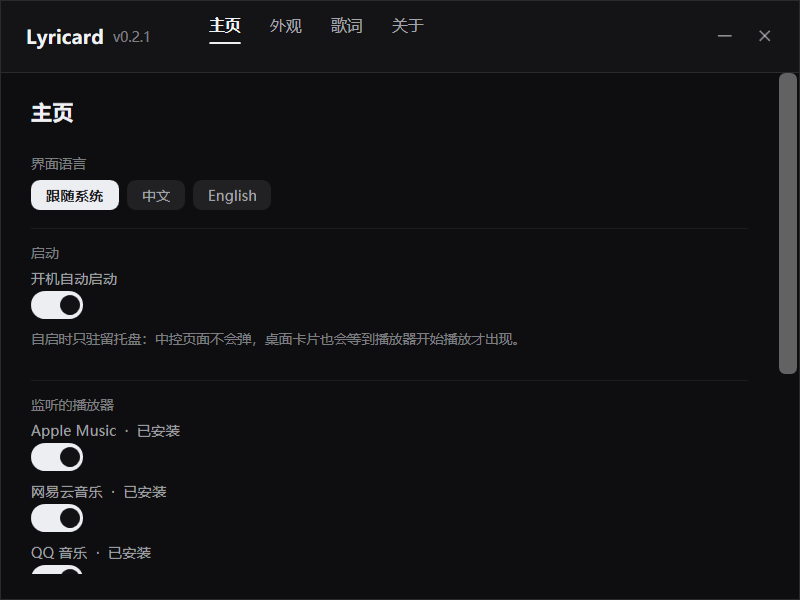
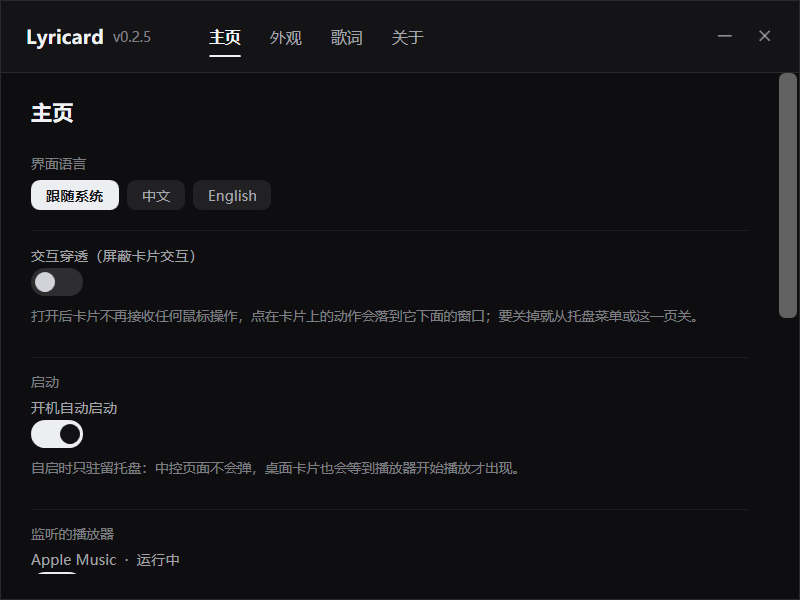
style(home): hairline between the language switch and click-through
Two unrelated controls were sitting 8px apart and the click-through row read like a
third language option. New Rule() draws the same 1px 16-alpha line Section() uses,
with 16px above and 12px below.

diff --git a/src/MainWindow.cs b/src/MainWindow.cs
@@ -163,6 +163,18 @@ namespace Amc
         /// Group heading. Every heading but the first on a page is preceded by a hairline, which is
         /// what actually separates "groups" visually on a dark surface -- spacing alone was mushy.
         /// </summary>
+        /// <summary>Bare 1px divider, same weight as the one <see cref="Section"/> draws, for
+        /// cases where two unrelated controls sit close together without a group heading.</summary>
+        UIElement Rule()
+        {
+            return new Rectangle
+            {
+                Height = 1,
+                Fill = new SolidColorBrush(Color.FromArgb(16, 255, 255, 255)),
+                Margin = new Thickness(0, 16, 0, 12)
+            };
+        }
+
         UIElement Section(string text)
         {
             var t = Label(text, 11, TextFaint, FontWeights.Normal);
@@ -830,6 +842,8 @@ namespace Amc
             // click-through: sits next to the language switch because it is a "how does this
             // thing behave" switch, not a look. Turning it on makes the card transparent to
             // the mouse; the tray menu and this page stay clickable to turn it back off.
+            // A hairline keeps it from reading as a third language option.
+            box.Children.Add(Rule());
             box.Children.Add(Row(Strings.T("page.home.clickthrough"),
                 Toggle(_cfg.ClickThrough, delegate(bool v)
                 {
